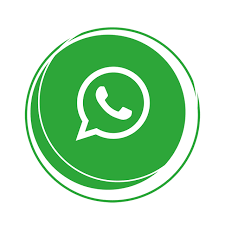
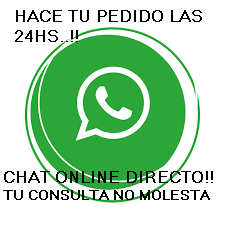
CORRECCION DEL ICONO
CAMBIO TAMAÑO DEL ICONO CHAT

diff --git a/index.html b/index.html
@@ -70,7 +70,7 @@
   <p> LO DEL BUSCA TE ESPERA ❤</p>
   <p> contacto Arzamendia4@gmail.com</p>
   <img src="images/pie1.jpg" alt="not imagen" width= "80";>
-  <a class= "appWhatsapp" href="https://api.whatsapp.com/send?phone=+543624694432$text=hola!&nbsp;cliente!">
+  <a class= "appWhatsapp" href="https://api.whatsapp.com/send?phone=+543624694432&text=Gracias!&nbsp;por&nbsp;hacer&nbsp;tu&nbsp;PEDIDO&nbsp;ONLINE.!!">
     <img src="images/whatsapp.png" alt="whatsapp">
   </a>
   </div>
